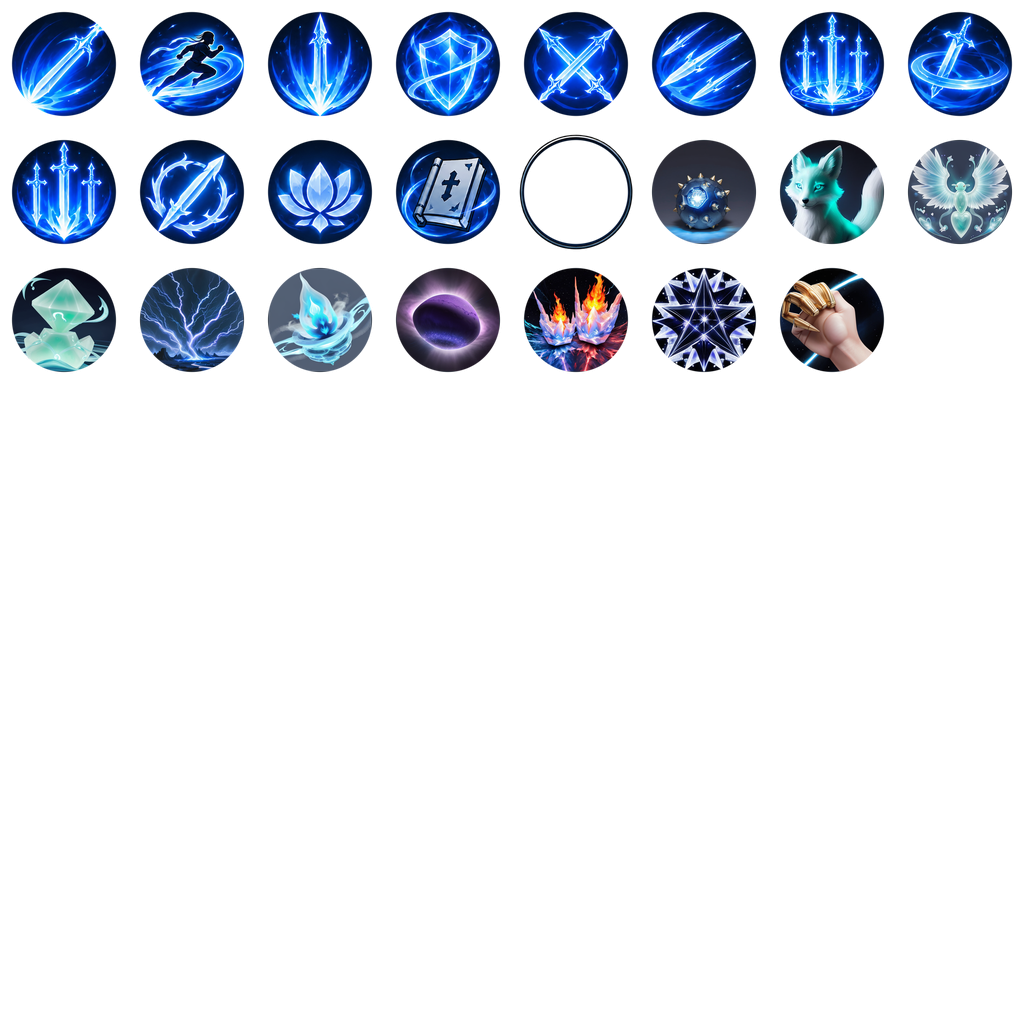
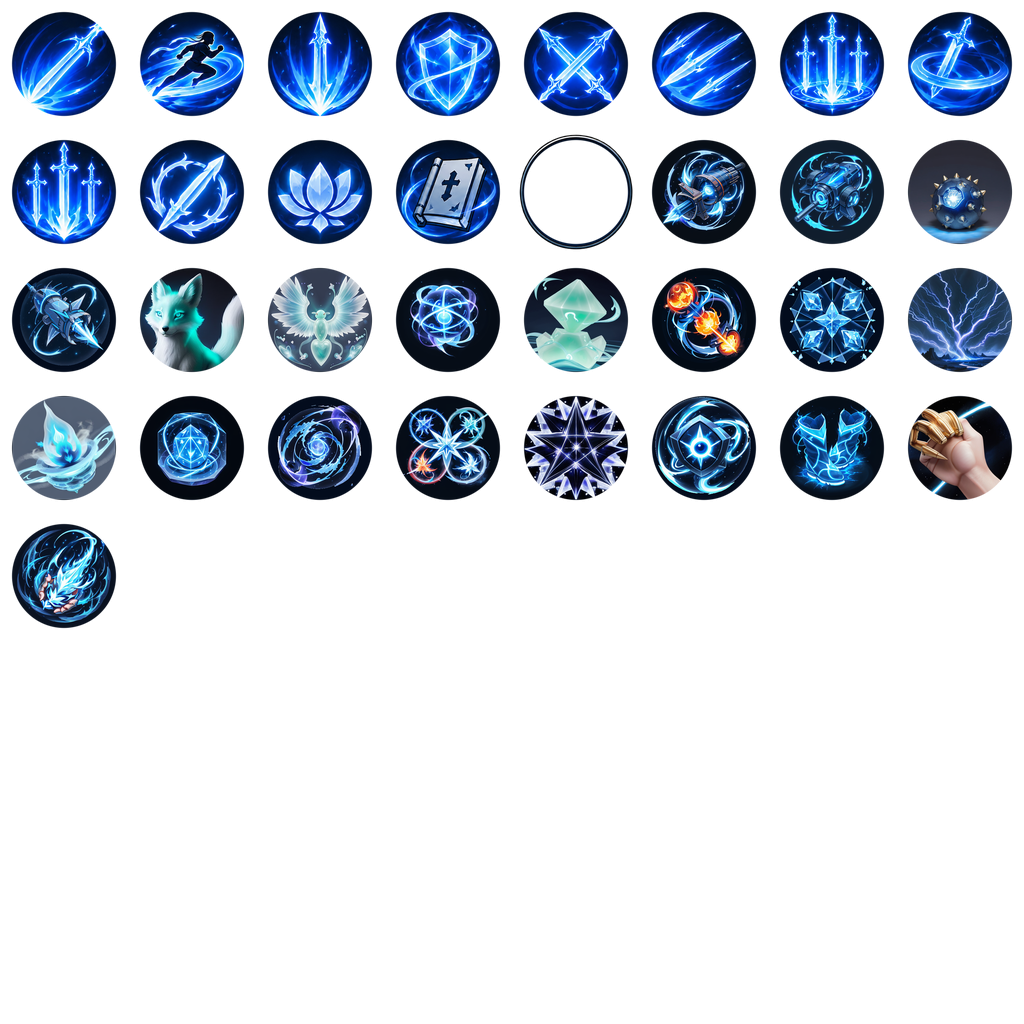
chore: lgo autopilot checkpoint character-hub-v30b - character-hub-style-artwork-runtime-v30b
Status: CONTINUE
Phase: character-hub-shared-skill-artwork
Next action: Hoàn thiện16 inner còn thiếu và background/palette nguồn cũ qua registry chung; không tạo builder/offset theo class.
Reason: 10 nội dung mới đã lên Player, Pháp9/9,29/45toàn catalog;16 vẫn thiếu, không visual final.

Validation:
- Graphics EditMode305/305 nofail/noskip
- Python51/51
- One Player build errors0 warnings0,87frames
- Eye15Skill+PotentialPC
- PNG/manifest replay exact; original13modules intact; frame shared

Changed region(s): [[0.0, 0.125, 1.0, 0.625]]

diff --git a/client/Unity/Assets/Game/Tests/EditMode/TwoDCharacterRuntimeStateTests.cs b/client/Unity/Assets/Game/Tests/EditMode/TwoDCharacterRuntimeStateTests.cs
@@ -1232,7 +1232,9 @@ namespace LinhGioi.Tests.EditMode
                 var scene = CongDongLamMap01AArtPreview.Attach(TwoDOnboardingController.Attach(host));
                 var frame = scene.GetMap01ASkillIconSprite("frame");
                 foreach (var id in new[] { "vo_skill_7", "phap_skill_3", "phap_skill_4", "phap_skill_6", "phap_skill_7",
-                    "phap_skill_8", "co_skill_4", "linh_skill_1", "linh_skill_3", "linh_skill_8" })
+                    "phap_skill_8", "co_skill_4", "linh_skill_1", "linh_skill_3", "linh_skill_8",
+                    "phap_skill_1", "phap_skill_2", "phap_skill_5", "phap_skill_9", "vo_skill_5", "vo_skill_9",
+                    "co_skill_2", "co_skill_3", "co_skill_7", "linh_skill_6" })
                 {
                     var sprite = scene.GetMap01ASkillIconSprite(id);
                     Assert.That(sprite, Is.Not.Null, id + " must resolve its own reviewed artwork, not a HUD fallback.");

diff --git a/docs/execution/NEXT-ACTION.md b/docs/execution/NEXT-ACTION.md
@@ -1,29 +1,26 @@
-# NEXT ACTION — Character Hub / Skill artwork
+# NEXT ACTION — Character Hub / shared Skill artwork
 
-## Active — hoàn thiện artwork trên base chung, không mở UI theo class
-- Giữ worktree `/Users/minhdc/Projects/LinhGioiOnline/.worktrees/character-hub-v22`, branch `codex/character-hub-v22`, upstream `origin/feature/2d`.
-- Phiên MCP hiện hành: `S-LGO-SKILL-20260916-C9B4`; check pause/claims trước batch. SESSION-CONTRACT V2 đã đọc; CLI v1 vẫn tương thích. Không đổi task/worktree hoặc chạy migration/restart theo thông báo.
-- Canonical duy nhất: `redesign-v4-five-tabs`; không mở class/pose/wardrobe/renderer/camera/frozen surfaces.
-- v27 có một library45skill +một base frame/content cho5class. v28 mở intake qua `--artwork-registry`; không viết packer/UI builder riêng.
+## Active — hoàn thiện16 icon còn thiếu trên một base
+- Giữ worktree `/Users/minhdc/Projects/LinhGioiOnline/.worktrees/character-hub-v22`, branch `codex/character-hub-v22`, upstream `origin/feature/2d`; không tạo/đổi branch/worktree.
+- Phiên `S-LGO-SKILL-20260916-C9B4`: đọc SESSION-CONTRACT, check pause, claim đúng tài nguyên; giữ v1 tương thích, client V2 đã enroll/inbox resolved. Không tự lấy claim của phiên khác.
+- Goal vẫn Character Hub5tab theo `redesign-v4-five-tabs`; không mở M0/auth/combat/class-pose/wardrobe/renderer/frozen surfaces từ tài liệu lịch sử.
 
-## v29 — 10 artwork thật đã nối vào Player, còn26 thiếu
-- Tạo nguồn local với DreamShaper8/Diffusers đã có, không tải model; giữ safety checker. Pilot4 ảnh bị loại. Batch36ID có2 ảnh bị lọc; sau review chỉ10 nội dung được chọn,26 không promotion.
-- IDs mới: vo_skill_7; phap_skill_3/4/6/7/8; co_skill_4; linh_skill_1/3/8. Nguồn384px +padding32 cố định → canvas448px; không fit từng hình theo bbox.
-- Atlas1024×1024/474211byte gồm23module:12inner cũ +10inner mới +một frame. Toàn bộ13module cũ giữ nguyên từng pixel. 19 frame instance vẫn dùng chung; runtime UI/base/library không đổi.
-- Full graphics EditMode305/305, no fail/skip; kiểm toàn bộ45 lựa chọn qua tree/detail/tooltip/missing state và frame identity. Python49/49. Một Player build/capture mới:0error/0warning trong build này;87ảnh.
-- Đã xem5class×3viewport +Tiềm năng PC. Không thấy cắt/chồng do batch; ảnh mới lên tree/equipped/detail. Đây là PARTIAL_DRAFT_RUNTIME_VALIDATED, KHÔNG phải visual final. Nền/palette/độ lấp đầy của một số motif còn cần polish ở source.
-- Sửa lỗi thật của packer: không-registry hoặc registry thiếu ID không được âm thầm xóa artwork đã đăng ký. Có RED→GREEN; giữ nguyên output khi bị từ chối.
+## v30 + v30b — đã qua runtime gate trong worktree
+- Đã được cấp claim Unity sau khi phiên chibi nhả; RED thiếu phap_skill_1 xác minh đúng trước nhập. Full graphics EditMode305/305 không fail/skip; một build0error/0warning;87frame qua command/manifest validator hiện hành.
+- 10 nội dung mới: Pháp1/2/5/9; Võ5/9; Cơ2/3/7; Linh6. Sửa nguồn Trọng Lực/Nguyên Tố (Pháp6/7) từv29; thử nghiệm mới3/4/8 bị loại do sai nghĩa/brief, không nhập.
+- Hiện29/45 skill UI có ảnh: Võ3/9, Kiếm9/9, Pháp9/9, Cơ4/9, Linh4/9; còn16 thiếu. Không thay tên/level/mô tả hoặc giả dữ liệu gameplay để giống design.
+- Một atlas1024×1024/674383byte,33module=32inner+1frame. So publishedv29: thêm10, sửa2, giữ21module cũ pixel-identical; riêng13module Kiếm/category/frame ban đầu đều nguyên vẹn. So candidatev30: chỉ2ID thay pixel,31module giữ nguyên.
+- Full test kiểm45selection qua tree/detail/tooltip/missing-state và19frame instance. Đã eye-review15ảnh5class×3viewport +Tiềm năngPC; không thấy cắt/chồng mới hoặc rò frame Skill sang Tiềm năng.
+- Kết quả kỹ thuật không đóng visual goal. Nguồn Pháp3/4/8, Võ7/Cơ4/Linh hiện hành còn lệch style/nền/độ lấp đầy; không đổi scale/offset theo class để che source.
 
-## Bước tiếp theo
-- [ ] Hoàn thiện26 artwork còn thiếu theo `build/character-hub-artwork-v29/missing-artwork.json`, không dùng lại ảnh bị loại hoặc icon HUD/Kiếm để lấp.
-- [ ] Củng cố nền/palette/độ lấp đầy của source mới khi đối chiếu canonical; không thêm scale/offset/nhánh UI theo class để che vấn đề source.
-- [ ] Registry tiếp phải tích lũy cả10ID đã đăng ký; `tools/pack_lgo_skill_icons.py --artwork-registry ... --output build/...` trước khi thay output runtime.
-- [ ] Giữ một frame master; kiểm một lượt5class/3viewport sau batch nguồn mới. Không coi test xanh là duyệt visual hoặc production gameplay.
+## Batch tiếp theo
+1. Kiểm checkpoint/pause/claims và `build/character-hub-source-coherence-v30b/missing-artwork.json`; ưu tiên các ô mặc định còn trống: Liên Kích, Cơ Nỏ, Hồi Phục.
+2. Giữ một registry tích lũy20inner bổ sung; revision nguồn phải ghi đúngID/hashes/review. Không tái sinh frame/category/Kiếm, không lấy icon HUD/ảnh bị loại lấp chỗ thiếu.
+3. Chốt motif và style source cả nhóm; kiểm common canvas384+padding32→448, xuất128 cùng aperture. Không brute-force lại giả định đã thất bại; nếu motif không đúng thì giữ missing rõ ràng.
+4. RED availability choID mới, candidate pixel-diff/metadata/replay, nhập một lượt, full graphics + Player3viewport + eye audit trước checkpoint tiếp.
 
 ## Evidence / provenance
-- `build/character-hub-artwork-v29/`: review.json, art-review.json, artwork-registry.json, generation*.json, raw PNG, source board, final-editmode.xml, runtime/, owned-processes.json.
-- Nguồn+registry/recipe được giữ trong `lgo-skill-artwork-v29-authoring.zip` cùng SHA256; đây là authoring/provenance, không unzip vào Resources hoặc chạy lại script generation mù quáng.
-- Image tool từng tạo nhầm dashboard giả: đã loại, không phải evidence MCP/Player. Evidence Player duy nhất trong runtime/ do Unity capture.
-- Process registry từng đầy: PID thật có thêm trong result/evidence; không sửa manager hoặc xóa record của phiên khác. Trước kết thúc chuyển WAITING_USER/BLOCKED; chỉ release claim của chính phiên khi đã xác minh job kết thúc.
-
-`CONTINUE / VISUAL_FIX_REQUIRED / ARTWORK_INCOMPLETE` —19/45 skill có art;26 còn thiếu. Mobile/tablet là viewport macOS, không phải thiết bị thật.
+- `build/character-hub-source-coherence-v30b/`: review.json, import-proof.json, artwork-registry.json, generation.json, full-editmode.xml, runtime/, owned-processes.json, player-processes.json, authoring ZIP+SHA.
+- `runtime/` là ảnh thật từ Player; `phap-source-review.png` chỉ asset review. Nguồn/candidate v30 vàv29 cùng các thử nghiệm bị loại giữ nguyên để đối chiếu.
+- Capture dùng builder/validator cũ; wrapper phiên ghi PID từng Player, không terminate khi pause/timeout. Các claim tạm chỉ được trả khi job đã kết thúc.
+`CONTINUE / VISUAL_FIX_REQUIRED / ARTWORK_INCOMPLETE` — chưa nghiệm thu art toàn5tab hoặc thiết bị mobile/tablet thật.

diff --git a/docs/execution/PROJECT-STATE.md b/docs/execution/PROJECT-STATE.md
@@ -1,3 +1,13 @@
+## Character Hub v30/v30b — đã kiểm bộ icon trong Player — 2026-09-16
+
+- Tiếp tục baseline d4e69f93, giữ codex/character-hub-v22/worktree cũ/phiên S-LGO-SKILL-20260916-C9B4. Đã được cấp Unity sau khi phiên chibi nhả; không lấy claim hoặc dừng process phiên khác.
+- Đã nhập10 source v30 và sửa2 source Pháp6/7 sau khi kiểm5variant (3loại đúng nghĩa/brief). Có29/45skill UI với artwork: Võ3, Kiếm9, Pháp9, Cơ4, Linh4;16 còn thiếu. Đây là coverage UI, không phải production combat hoàn tất.
+- Một atlas1024×1024/674383byte,33module/1frame. Giữ21/23module v29 pixel-identical, chỉ2ID được phép đổi;13module Kiếm/category/frame gốc nguyên vẹn. Runtime UI/base/library45record, renderer/class/pose/wardrobe/ProjectSettings và frozen không đổi.
+- RED thiếu sprite phap_skill_1 đúng nguyên nhân → graphics EditMode305/305 không fail/skip. Python51/51 (49repo+2revision). PNG+manifest replay byte-identical. Một Player build0error/0warning,87frame; eye-review5class×3viewport+Tiềm năngPC.
+- Thấy đủ9icon Pháp trong Player, không thấy cắt/chồng mới hoặc frame Skill rò sang Tiềm năng. Style một số nguồn cũ và16 artwork thiếu còn mở: CONTINUE/VISUAL_FIX_REQUIRED, không tự nghiệm thu goal5tab hay thiết bị thật.
+- Evidence/provenance: build/character-hub-source-coherence-v30b/review.json, runtime/, artwork-registry.json, import-proof.json, full-editmode.xml, owned-processes.json và player-processes.json. Wrapper dùng command/validator cũ, ghi PID từng Player và không terminate khi timeout/pause.
+- NEXT-ACTION đã ghi bước tiếp; các state BLOCKED của lượt trước là lịch sử, không phải blocker hiện hành.
+
 ## Character Hub v29 — artwork thật qua một base — 2026-09-16
 
 - Kế thừa a7114684; giữ codex/character-hub-v22 tại worktree cũ. Phiên S-LGO-SKILL-20260916-C9B4; check/claim trước batch, không tác động phiên khác. Đã đọc V2 notice/contract, giữ CLI v1 tương thích cho batch hiện hành.
